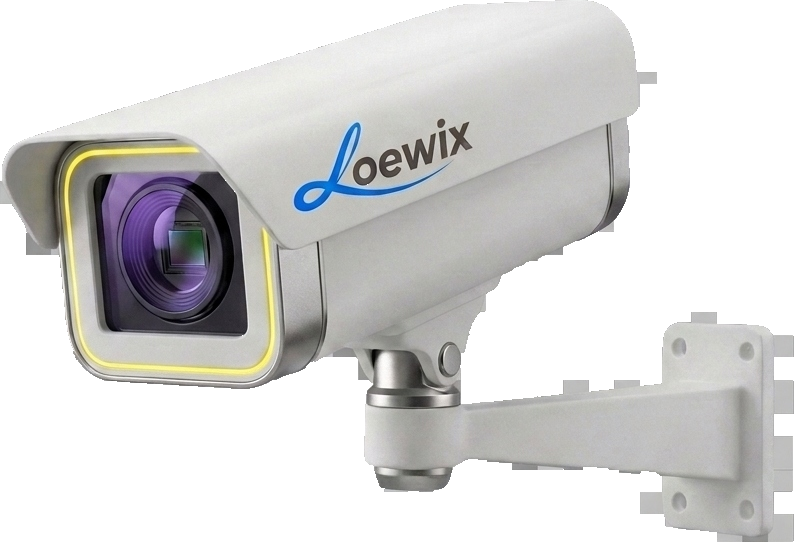
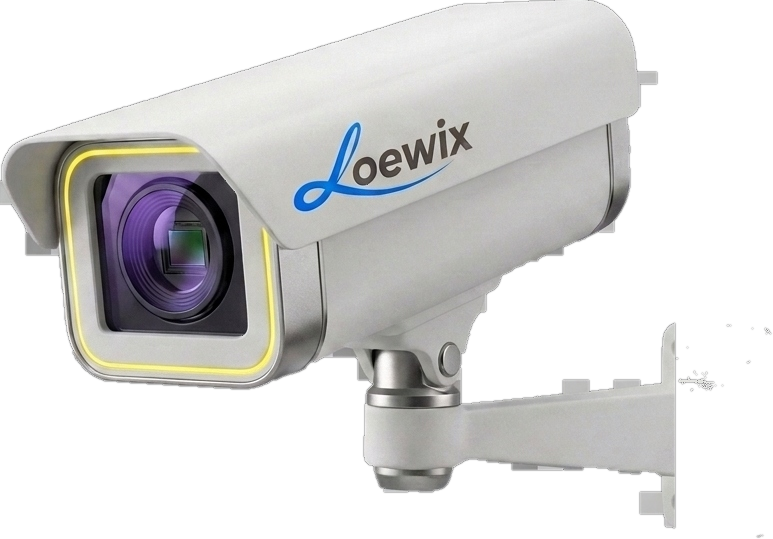
Remove all right-side bracket grid artifacts for smooth edge finish

Changed region(s): [[0.031, 0.0, 1.0, 1.0], [0.652, 0.2672, 0.6831, 0.2968], [0.4968, 0.0297, 0.5278, 0.0594]]

diff --git a/index.html b/index.html
@@ -3295,7 +3295,7 @@
                 <div class="banner-right-con wow slideInRight" style="position: relative; display: flex; justify-content: center; align-items: center;">
                   <figure class="mb-0" style="position: relative; display: inline-block; max-width: 100%;">
                     <img
-                      src="assets/image/loewix_hero_cctv_camera.png?v=5"
+                      src="assets/image/loewix_hero_cctv_camera.png?v=6"
                       alt="Loewix CCTV Camera"
                       class="img-fluid"
                       style="max-width: 90%; max-height: 380px; width: auto; height: auto; filter: drop-shadow(0 15px 30px rgba(0,0,0,0.4)); transition: all 0.5s ease;"

diff --git a/index.php b/index.php
@@ -3295,7 +3295,7 @@
                 <div class="banner-right-con wow slideInRight" style="position: relative; display: flex; justify-content: center; align-items: center;">
                   <figure class="mb-0" style="position: relative; display: inline-block; max-width: 100%;">
                     <img
-                      src="assets/image/loewix_hero_cctv_camera.png?v=5"
+                      src="assets/image/loewix_hero_cctv_camera.png?v=6"
                       alt="Loewix CCTV Camera"
                       class="img-fluid"
                       style="max-width: 90%; max-height: 380px; width: auto; height: auto; filter: drop-shadow(0 15px 30px rgba(0,0,0,0.4)); transition: all 0.5s ease;"
